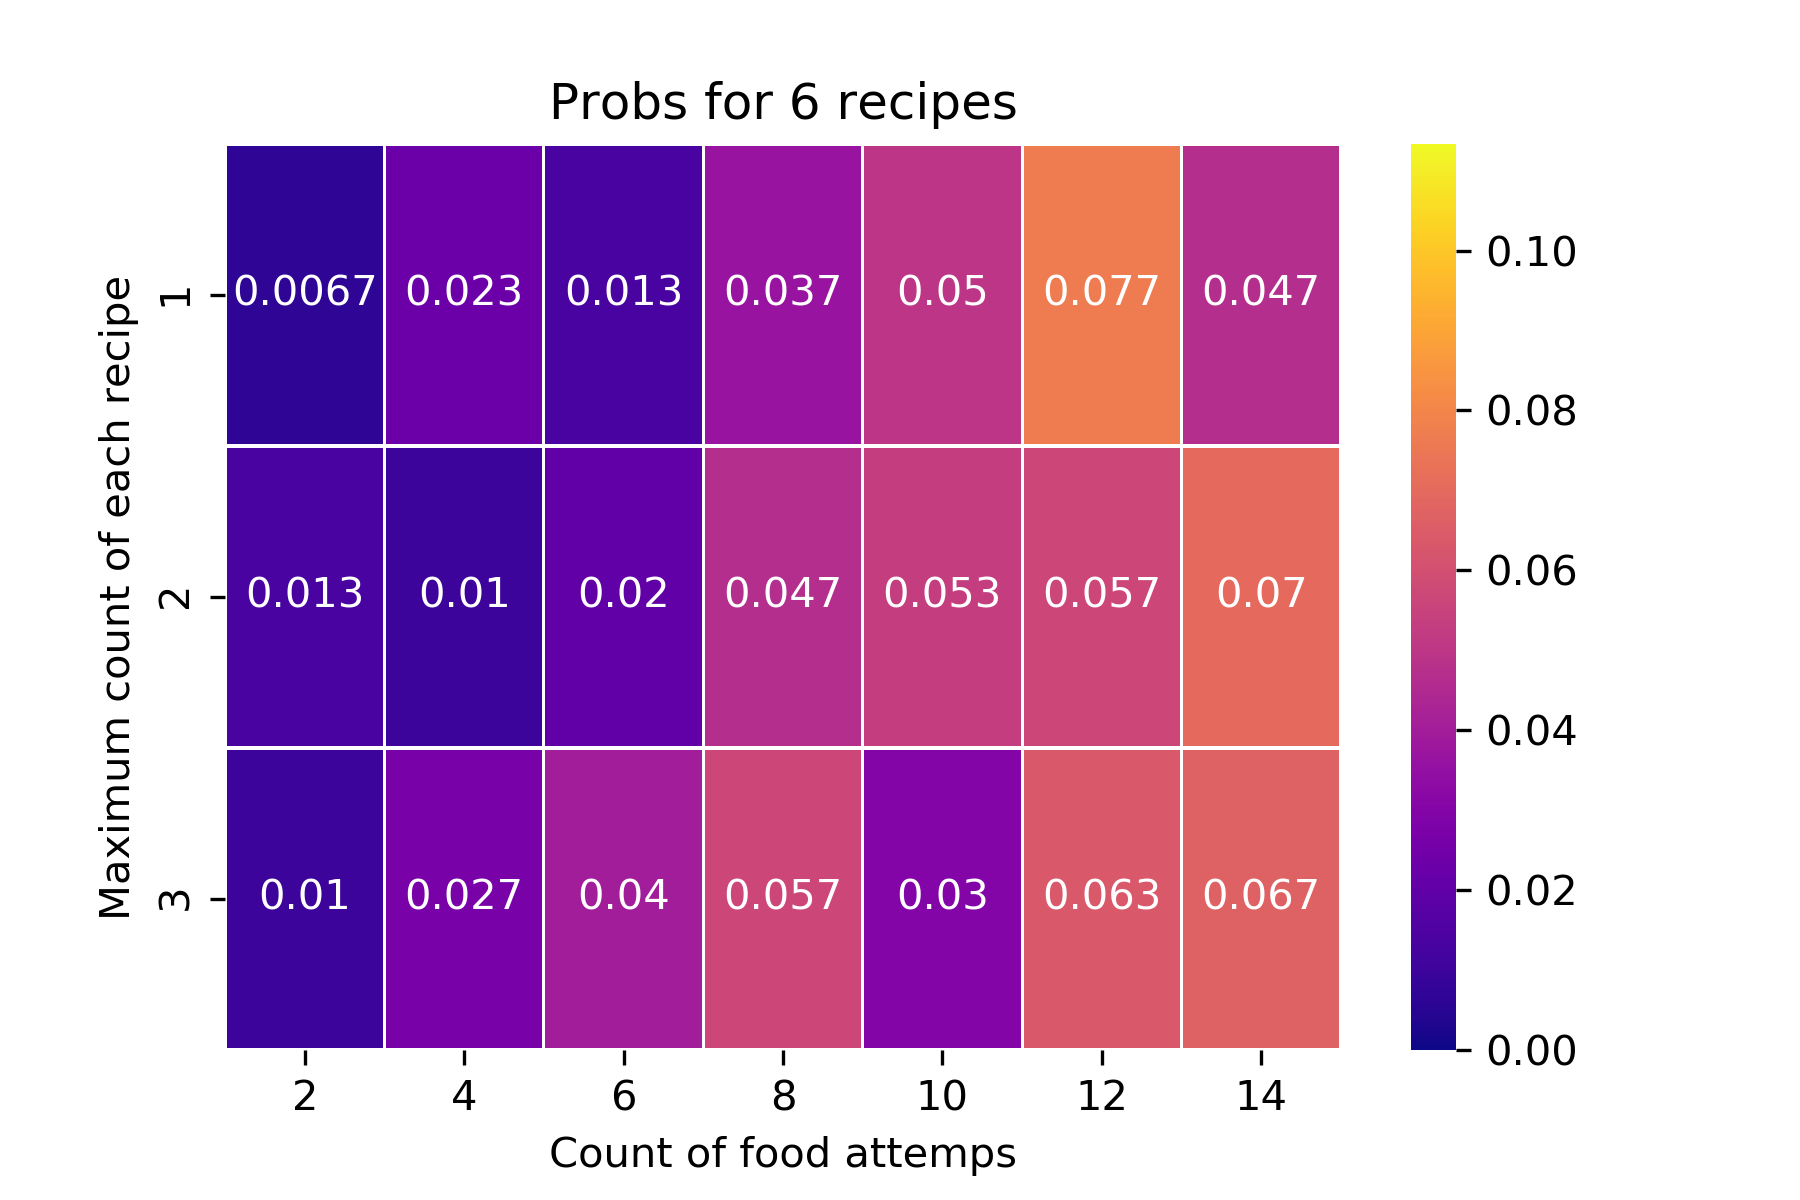
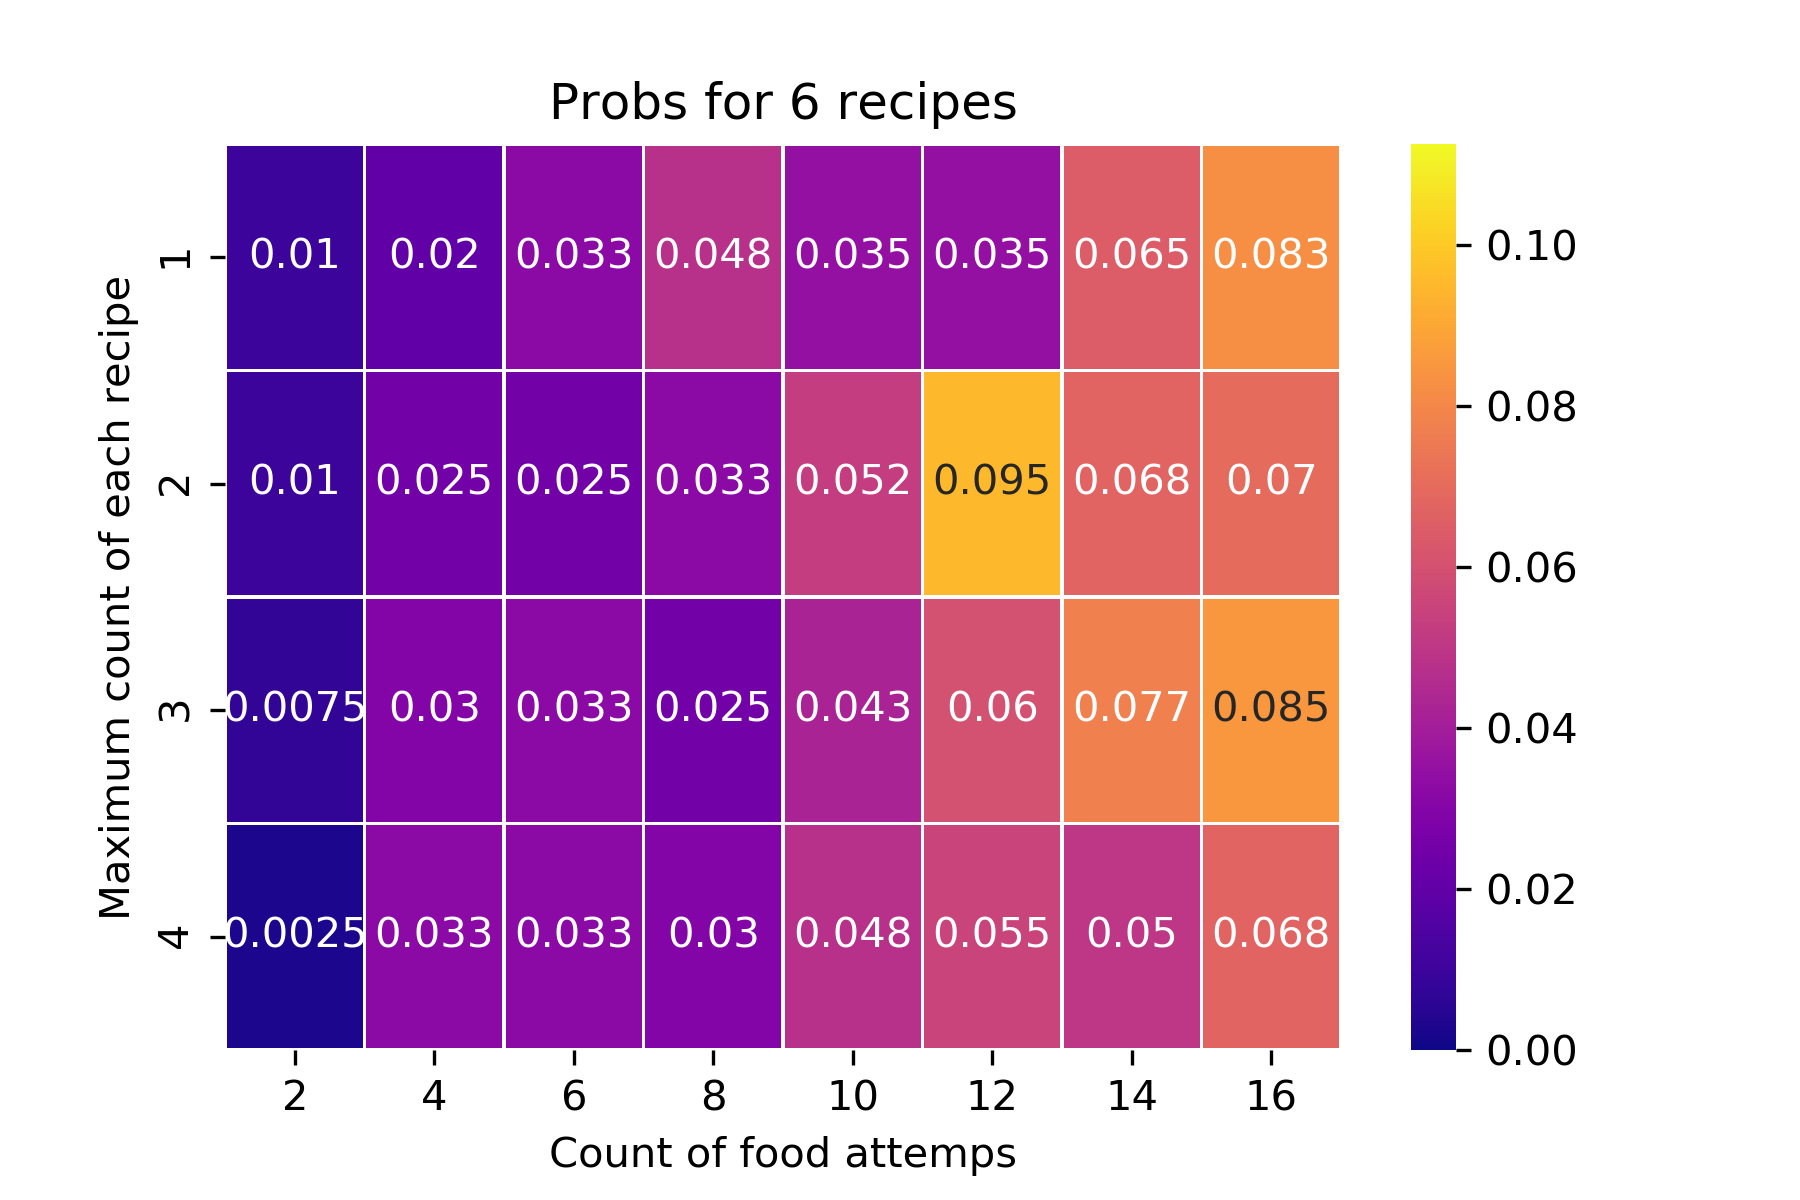
-

diff --git a/method_draft.py b/method_draft.py
@@ -287,33 +287,33 @@ borders = pd.read_csv('currect_borders.csv').to_numpy()
 candidates = get_optimal_candidates(foods, recipes, borders, 4, 3, 10, 100, 3)
 
 
-recipes_count = np.arange(2, 11)
-max_count = np.arange(1, 5)
-tryes = np.arange(2, 17, 2)
-R = np.empty((recipes_count.size, max_count.size, tryes.size))
+# recipes_count = np.arange(2, 11)
+# max_count = np.arange(1, 5)
+# tryes = np.arange(2, 17, 2)
+# R = np.empty((recipes_count.size, max_count.size, tryes.size))
 
-much = 300
-for i in range(R.shape[0]):
-    for j in range(R.shape[1]):
-        for k in range(R.shape[2]):
-            R[i, j, k] = len(get_optimal_candidates(foods, recipes, borders, recipes_count[i], max_count[j], tryes[k], much, 3))/much
-    print(R[i,:,:])
+# much = 400
+# for i in range(R.shape[0]):
+#     for j in range(R.shape[1]):
+#         for k in range(R.shape[2]):
+#             R[i, j, k] = len(get_optimal_candidates(foods, recipes, borders, recipes_count[i], max_count[j], tryes[k], much, 3))/much
+#     print(R[i,:,:])
 
 
 
-import seaborn as sns
-import matplotlib.pylab as plt
+# import seaborn as sns
+# import matplotlib.pylab as plt
 
-for i in range(len(recipes_count)):
-    ax = sns.heatmap(R[i,:,:], linewidth=0.5, vmin=R.min(), vmax=R.max(), annot = True, cmap = 'plasma')
-    ax.set_xticklabels(tryes)
-    ax.set_yticklabels(max_count)
-    plt.xlabel('Count of food attemps')
-    plt.ylabel('Maximum count of each recipe')
-    plt.title(f'Probs for {recipes_count[i]} recipes')
-    plt.savefig(f'./day_config_probs/recipes_count = {recipes_count[i]}.png', dpi = 300)
-    plt.close()
-    #plt.show()
+# for i in range(len(recipes_count)):
+#     ax = sns.heatmap(R[i,:,:], linewidth=0.5, vmin=R.min(), vmax=R.max(), annot = True, cmap = 'plasma')
+#     ax.set_xticklabels(tryes)
+#     ax.set_yticklabels(max_count)
+#     plt.xlabel('Count of food attemps')
+#     plt.ylabel('Maximum count of each recipe')
+#     plt.title(f'Probs for {recipes_count[i]} recipes')
+#     plt.savefig(f'./day_config_probs/recipes_count = {recipes_count[i]}.png', dpi = 300)
+#     plt.close()
+#     #plt.show()
 
 
 
